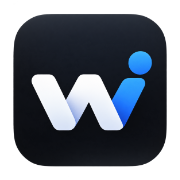
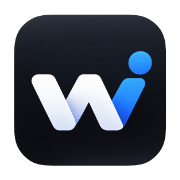
Der graue Saum um das Symbol, und die Texte fuer den Store
Um das fast schwarze Zeichen lag auf jedem Icon ein heller Rahmen - der
Grat, den die Vorlage am Rand ihres Squircles traegt. Weggeschnitten wird
er jetzt mit einer Maske aus dem Alphakanal der Vorlage selbst, damit die
neue Kante exakt der Squircle-Form folgt statt einer nachgebauten.

Auf dem Apple TV stand das Zeichen ausserdem zu dicht am Rand seiner
Ebene. Im Parallaxen-Effekt wandert die vordere Schicht, und was zu weit
aussen sitzt, laeuft dabei aus dem Bild.

Dazu die Store-Texte an einem Ort, und ein Skript, das ihre Laenge gegen
die Grenzen von App Store Connect zaehlt. Dort faellt eine Ueberschreitung
erst beim Einfuegen auf, und dann fehlt der Satz, den man kuerzen muss.

diff --git a/Scripts/generate-icons.swift b/Scripts/generate-icons.swift
@@ -70,11 +70,45 @@ func solid(_ color: CIColor, _ size: CGSize) -> CIImage {
     CIImage(color: color).cropped(to: CGRect(origin: .zero, size: size))
 }
 
+/// Schneidet den hellen Grat weg, den die Vorlage am Rand des Squircles trägt.
+/// Die Silhouette wird um ein paar Pixel verkleinert; weil die Maske aus dem
+/// Alphakanal der Vorlage selbst stammt, folgt die neue Kante exakt der
+/// Squircle-Form. Ohne das liegt um das fast schwarze Symbol ein grauer Saum.
+func trimEdge(_ source: CIImage, by pixels: Double) -> CIImage {
+    let extent = source.extent
+    let fromAlpha = CIVector(x: 0, y: 0, z: 0, w: 1)
+    // Alpha in eine Graustufenmaske übersetzen, verkleinern und wieder auf
+    // volle Deckung ziehen - sonst multipliziert sich die Maske ein zweites Mal
+    // auf das Alpha der Vorlage und das Symbol wird durchscheinend.
+    let mask = source
+        .applyingFilter("CIColorMatrix", parameters: [
+            "inputRVector": fromAlpha, "inputGVector": fromAlpha,
+            "inputBVector": fromAlpha, "inputAVector": fromAlpha,
+        ])
+        .cropped(to: extent)
+        .applyingFilter("CIMorphologyMinimum", parameters: [kCIInputRadiusKey: pixels])
+        .applyingFilter("CIColorMatrix", parameters: [
+            "inputRVector": CIVector(x: 1.6, y: 0, z: 0, w: 0),
+            "inputGVector": CIVector(x: 0, y: 1.6, z: 0, w: 0),
+            "inputBVector": CIVector(x: 0, y: 0, z: 1.6, w: 0),
+            "inputAVector": CIVector(x: 0, y: 0, z: 0, w: 1.6),
+        ])
+        .applyingFilter("CIColorClamp")
+        .cropped(to: extent)
+    return source
+        .applyingFilter("CIBlendWithMask", parameters: [
+            kCIInputBackgroundImageKey: CIImage.empty(),
+            kCIInputMaskImageKey: mask,
+        ])
+        .cropped(to: extent)
+}
+
 // MARK: macOS
 
 // Die Quelle hat den Squircle samt transparentem Rand schon - genau die Form,
-// die macOS erwartet. Also nur skalieren, nichts hinzufügen.
-let macSource = load("app logo.png")
+// die macOS erwartet. Also nur skalieren, nichts hinzufügen. Einzig der helle
+// Grat an der Kante muss weg, der sonst als grauer Rahmen um das Symbol liegt.
+let macSource = trimEdge(load("app logo.png"), by: 5)
 let macSizes: [(Int, Int)] = [(16, 1), (16, 2), (32, 1), (32, 2), (128, 1), (128, 2), (256, 1), (256, 2), (512, 1), (512, 2)]
 for (points, scale) in macSizes {
     let pixels = CGFloat(points * scale)
@@ -127,7 +161,7 @@ func buildStack(_ stack: String, size: CGSize, scale: Int, blur: Double) {
     let pixelSize = CGSize(width: size.width * CGFloat(scale), height: size.height * CGFloat(scale))
     writeLayer(backdrop(tvSource, size: pixelSize, blur: blur * Double(scale)),
                size: pixelSize, stack: stack, layer: "Back", scale: scale)
-    writeLayer(fit(mark, pixelSize, margin: 0.04, background: CIImage.empty()),
+    writeLayer(fit(mark, pixelSize, margin: 0.14, background: CIImage.empty()),
                size: pixelSize, stack: stack, layer: "Front", scale: scale)
 }
 

diff --git a/assets/store/texte.md b/assets/store/texte.md
@@ -1,0 +1,201 @@
+# Store-Texte
+
+Alles, was in App Store Connect an Text eingetragen wird. Beide Plattformen
+liegen unter **einem** Eintrag (`de.eliaspeeters.wattwerk`), Untertitel,
+Beschreibung und Screenshots sind aber **je Plattform** eigene Felder — die
+macOS- und die tvOS-Fassung unterscheiden sich, weil sich die Apps
+unterscheiden.
+
+Die Zeichengrenzen stehen dahinter; die Zahlen sind nachgezählt, nicht
+geschätzt. Prüfen lässt sich das mit
+`node Scripts/check-store-text.mjs`.
+
+---
+
+## Gemeinsam für beide Plattformen
+
+**Name** (max. 30)
+
+```
+Wattwerk
+```
+
+**Schlüsselwörter** (max. 100, mit Komma getrennt, keine Leerzeichen dahinter)
+
+```
+Indoor,Radtraining,Smarttrainer,FTMS,Intervall,FTP,Watt,Rollentrainer,Radsport,Trittfrequenz
+```
+
+Kein Name eines fremden Produkts. Apple weist Einträge zurück, die
+Mitbewerber als Schlüsselwort führen (Richtlinie 5.2.1), und Begriffe aus Name
+und Untertitel werden ohnehin getrennt indiziert — sie hier zu wiederholen
+verschenkt nur Platz.
+
+**Adressen**
+
+| Feld | Wert |
+|---|---|
+| Support-URL | `https://wattwerk.eliaspeeters.de` |
+| Marketing-URL | `https://wattwerk.eliaspeeters.de` |
+| Datenschutz-URL | `https://wattwerk.eliaspeeters.de/datenschutz` |
+
+**Kategorie** Gesundheit und Fitness, zweitrangig Sport.
+**Altersfreigabe** 4+.
+
+---
+
+## macOS
+
+**Untertitel** (max. 30)
+
+```
+Strukturiert am Trainer fahren
+```
+
+**Werbetext** (max. 170, lässt sich ohne neue Prüfung ändern)
+
+```
+Programme am Mac bauen, im Wohnzimmer am Apple TV fahren, im Web-Portal auswerten. Mit Konto überall derselbe Stand – ohne Konto bleibt alles auf dem Gerät.
+```
+
+**Beschreibung** (max. 4000)
+
+```
+Strukturiertes Indoor-Radtraining: Programm auswählen, den Smarttrainer per Bluetooth steuern lassen, jede Einheit aufzeichnen. Kein Abo, keine Avatare, kein Punktestand – nur die Zahlen, auf die es beim Training ankommt.
+
+PROGRAMME, DIE SCHON DA SIND
+
+Elf Einheiten sind eingebaut: Grundlage 60, Sweet Spot 3x12, Over-Unders 3x9, VO2max 5x3, 30/30er, Pyramide, Tabata, Kadenzspiel, Aktive Erholung 30, ein Rampentest zur FTP-Bestimmung und die Freie Fahrt ohne Vorgabe. Jede Karte zeigt Profil, Dauer und Belastung, bevor du sie öffnest.
+
+DER TRAINER MACHT MIT
+
+Wattwerk spricht FTMS, das offene Bluetooth-Profil für Fitnessgeräte, und gibt deinem Smarttrainer die Zielleistung vor. Du trittst, der Widerstand folgt dem Programm. Bei der Gerätesuche zeigt ein Abzeichen, ob ein gefundener Trainer FTMS beherrscht. Reine Leistungsmesser und Pulsgurte lassen sich ebenso verbinden; ein eigener Gurt sticht dabei den Wert, den der Trainer durchreicht.
+
+WÄHREND DER FAHRT
+
+Die große Zahl ist deine Leistung, daneben steht das Ziel. Sie färbt sich grün, solange du im Fenster liegst. Dazu Restzeit im Block, Trittfrequenz mit Zielbereich, Puls, Durchschnitt, normalisierte Leistung und geleistete Arbeit. Zu hart? Ein Knopf macht die ganze Einheit stufenweise leichter, ohne das Programm zu verlassen. Block vor, Block zurück und Pause gibt es auch. Der Bildschirm schläft währenddessen nicht ein.
+
+NACH DER FAHRT
+
+Dauer, Durchschnitt, normalisierte Leistung, Belastung in TSS, Arbeit in Kilojoule und Durchschnittspuls – dazu, wie lange du in welcher der sieben Leistungszonen unterwegs warst. Ob die Einheit gespeichert wird, entscheidest du. Im Verlauf steht danach jede Fahrt mit ihren Kennzahlen, die Wochenbelastung addiert sich von selbst, und jede Einheit lässt sich als CSV Sekunde für Sekunde ausgeben.
+
+EINE ZAHL REGIERT ALLES
+
+Sämtliche Vorgaben rechnen in Prozent deiner FTP. Ändert sich die FTP, ändern sich alle Programme mit – ohne dass du eine einzige Zahl nachträgst. Den Rampentest rechnet die App auf Wunsch gleich in eine neue FTP um.
+
+EIGENE PROGRAMME
+
+Der Editor baut Einheiten aus Blöcken: konstant oder Rampe, Dauer frei wählbar, Zielwert in Prozent FTP oder direkt in Watt, dazu ein Trittfrequenzbereich. Blöcke lassen sich verschieben, verdoppeln und löschen; Profil, Belastung und Intensität rechnen beim Bauen mit.
+
+MIT KONTO ODER OHNE
+
+Ohne Anmeldung funktioniert die App vollständig – hinter dem Konto ist keine Funktion versteckt. Wer eines anlegt, bekommt den Abgleich: Programme, Ordner und gefahrene Einheiten liegen dann auf allen Geräten gleich, das Web-Portal zeigt denselben Stand, und eigene Programme lassen sich mit anderen teilen.
+
+VORAUSSETZUNGEN
+
+macOS 14 oder neuer. Für die Steuerung ein Smarttrainer mit Bluetooth Low Energy, der FTMS beherrscht. Ausprobieren geht auch ohne Rad: unter "Geräte" den Simulator einschalten, dann läuft eine Einheit mit glaubhaften Leistungs-, Trittfrequenz- und Pulswerten durch.
+```
+
+---
+
+## tvOS
+
+**Untertitel** (max. 30)
+
+```
+Indoor-Training am Fernseher
+```
+
+**Werbetext** (max. 170)
+
+```
+Programme am Mac oder im Web-Portal bauen, am Apple TV fahren. Dieselbe Bibliothek, dieselben Einheiten – nur groß genug, um sie vom Rad aus zu lesen.
+```
+
+**Beschreibung** (max. 4000)
+
+```
+Strukturiertes Indoor-Radtraining im Wohnzimmer: Programm auswählen, den Smarttrainer per Bluetooth steuern lassen, jede Einheit aufzeichnen. Alles so groß gesetzt, dass es vom Rad aus lesbar bleibt.
+
+PROGRAMME, DIE SCHON DA SIND
+
+Elf Einheiten sind eingebaut: Grundlage 60, Sweet Spot 3x12, Over-Unders 3x9, VO2max 5x3, 30/30er, Pyramide, Tabata, Kadenzspiel, Aktive Erholung 30, ein Rampentest zur FTP-Bestimmung und die Freie Fahrt ohne Vorgabe. Die Bibliothek liegt in Reihen vor dir, jede Karte zeigt Profil, Dauer und Belastung – ausgewählt wird mit der Fernbedienung.
+
+DER TRAINER MACHT MIT
+
+Wattwerk spricht FTMS, das offene Bluetooth-Profil für Fitnessgeräte, und gibt deinem Smarttrainer die Zielleistung vor. Du trittst, der Widerstand folgt dem Programm. Der Trainer verbindet sich direkt mit dem Apple TV; ein Mac muss dafür nicht mitlaufen. Reine Leistungsmesser und Pulsgurte lassen sich ebenso verbinden.
+
+WÄHREND DER FAHRT
+
+Die große Zahl ist deine Leistung, daneben steht das Ziel. Sie färbt sich grün, solange du im Fenster liegst. Dazu Restzeit im Block, Trittfrequenz mit Zielbereich, Puls, Durchschnitt, normalisierte Leistung und geleistete Arbeit – aus drei Metern Entfernung lesbar. Die Play/Pause-Taste der Fernbedienung hält die Einheit an, der Bildschirm schläft während der Fahrt nicht ein.
+
+NACH DER FAHRT
+
+Dauer, Durchschnitt, normalisierte Leistung, Belastung in TSS, Arbeit in Kilojoule und Durchschnittspuls – dazu, wie lange du in welcher der sieben Leistungszonen unterwegs warst. Ob die Einheit gespeichert wird, entscheidest du. Im Verlauf steht danach jede Fahrt mit ihren Kennzahlen, und die Wochenbelastung addiert sich von selbst.
+
+EINE ZAHL REGIERT ALLES
+
+Sämtliche Vorgaben rechnen in Prozent deiner FTP. Ändert sich die FTP, ändern sich alle Programme mit – ohne dass du eine einzige Zahl nachträgst. Den Rampentest rechnet die App auf Wunsch gleich in eine neue FTP um.
+
+AM MAC GEBAUT, HIER GEFAHREN
+
+Eigene Programme entstehen in der Mac-App oder im Web-Portal, wo sich Blöcke bequem mit Tastatur und Maus setzen lassen. Mit Konto stehen sie unmittelbar danach auch auf dem Apple TV bereit, zusammen mit deinen Ordnern und dem Verlauf.
+
+MIT KONTO ODER OHNE
+
+Ohne Anmeldung funktioniert die App vollständig – hinter dem Konto ist keine Funktion versteckt. Es bringt den Abgleich zwischen den Geräten und das Web-Portal, mehr nicht.
+
+VORAUSSETZUNGEN
+
+tvOS 17 oder neuer. Für die Steuerung ein Smarttrainer mit Bluetooth Low Energy, der FTMS beherrscht. Ausprobieren geht auch ohne Rad: unter "Geräte" den Simulator einschalten, dann läuft eine Einheit mit glaubhaften Leistungs-, Trittfrequenz- und Pulswerten durch.
+```
+
+---
+
+## Neu in dieser Version (1.0, beide Plattformen)
+
+```
+Die erste Fassung.
+```
+
+Ab 1.1 gehört hierhin, was sich geändert hat – nicht "Fehlerbehebungen und
+Verbesserungen".
+
+---
+
+## Hinweise für die App-Prüfung
+
+Gehört in App Store Connect unter *App-Prüfungsinformationen → Notizen*. Der
+Prüfer hat keinen Smarttrainer; ohne diesen Hinweis kommt er nicht über den
+ersten Bildschirm hinaus, und das endet in einer Ablehnung wegen
+"Wir konnten die Funktion nicht bewerten".
+
+```
+Die App braucht kein Konto: jede Funktion ist ohne Anmeldung erreichbar. Ein Demo-Zugang ist deshalb nicht nötig.
+
+Zum Prüfen ohne Smarttrainer ist ein Simulator eingebaut:
+
+1. "Geräte" öffnen und den Schalter "Simulator" einschalten.
+2. Auf "Training" wechseln und ein Programm auswählen, zum Beispiel "Sweet Spot 3x12".
+3. "Einheit starten". Die App zeigt daraufhin Leistung, Trittfrequenz und Puls wie mit einem echten Trainer und steuert die Blöcke des Programms durch.
+4. Über "Beenden" erscheint die Auswertung; nach dem Speichern steht die Einheit unter "Verlauf".
+
+Beim ersten Öffnen von "Geräte" fragt das System nach der Bluetooth-Berechtigung. Sie wird für die Verbindung zu Smarttrainern und Pulsgurten nach dem FTMS-Profil verwendet; ohne Zustimmung bleibt der Simulator nutzbar.
+
+Ein Konto lässt sich über "Konto" frei anlegen. Es dient allein dem Abgleich zwischen Mac, Apple TV und dem Web-Portal auf https://wattwerk.eliaspeeters.de.
+```
+
+---
+
+## Was noch zu entscheiden ist
+
+* **Preis.** In der Beschreibung steht "Kein Abo". Das ist eine Aussage über
+  das Preismodell, das in App Store Connect gesetzt wird — sie muss dazu
+  passen.
+* **Sprache.** Der Eintrag ist einsprachig deutsch, weil die App selbst nur
+  Deutsch spricht. Ein englischer Eintrag würde Leute anziehen, die dann vor
+  einer deutschen Oberfläche stehen.
+* **FTMS.** Die Texte sagen, dass die App FTMS spricht — nicht, dass sie mit
+  jedem Trainer am Markt erprobt ist. Das ist Absicht: bislang ist die
+  Umsetzung an keinem echten Gerät gefahren worden (siehe README, „Nicht
+  geprüft").
